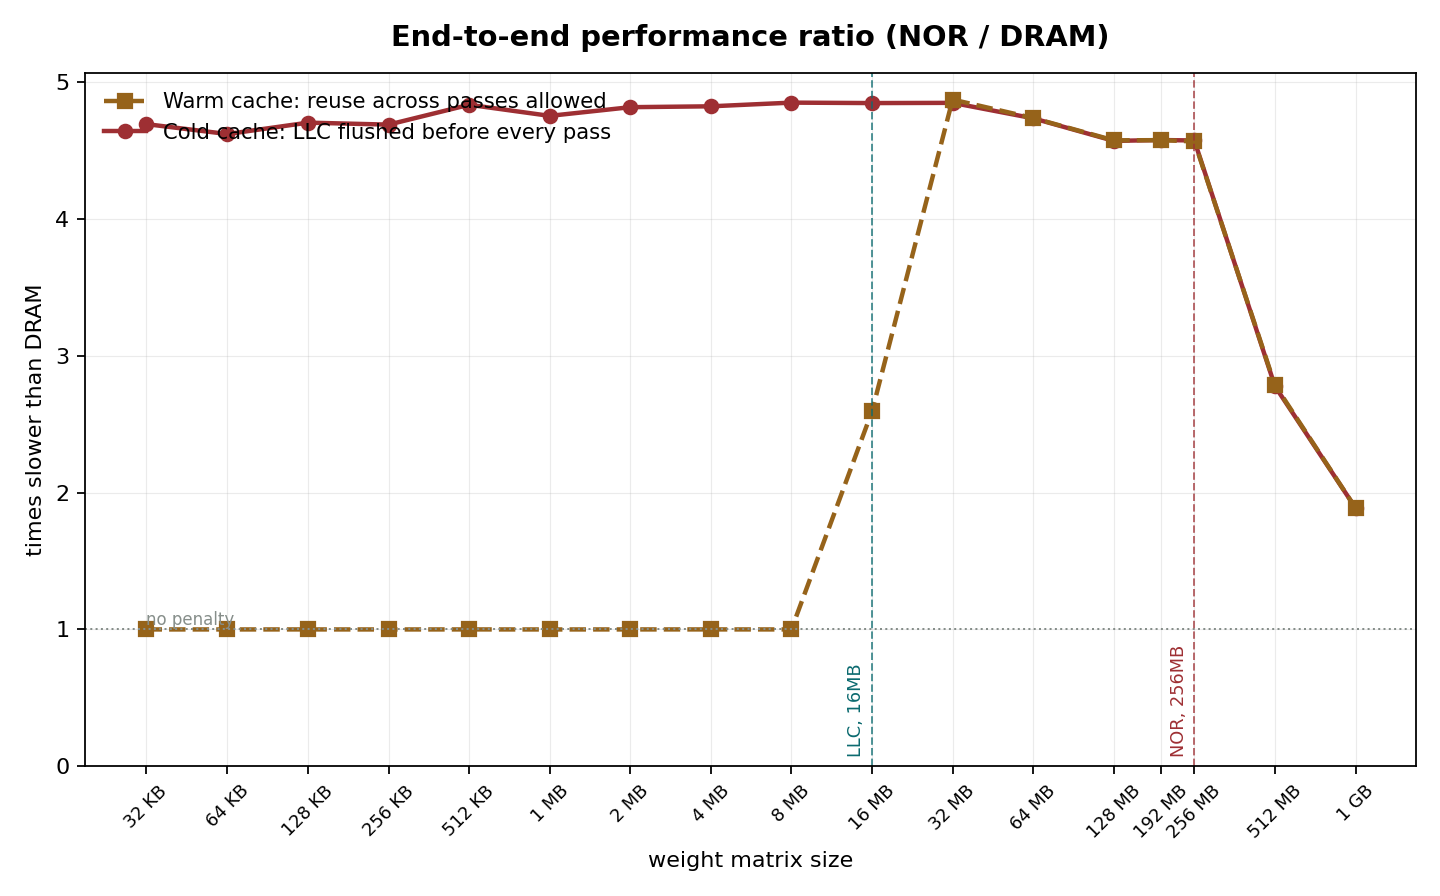
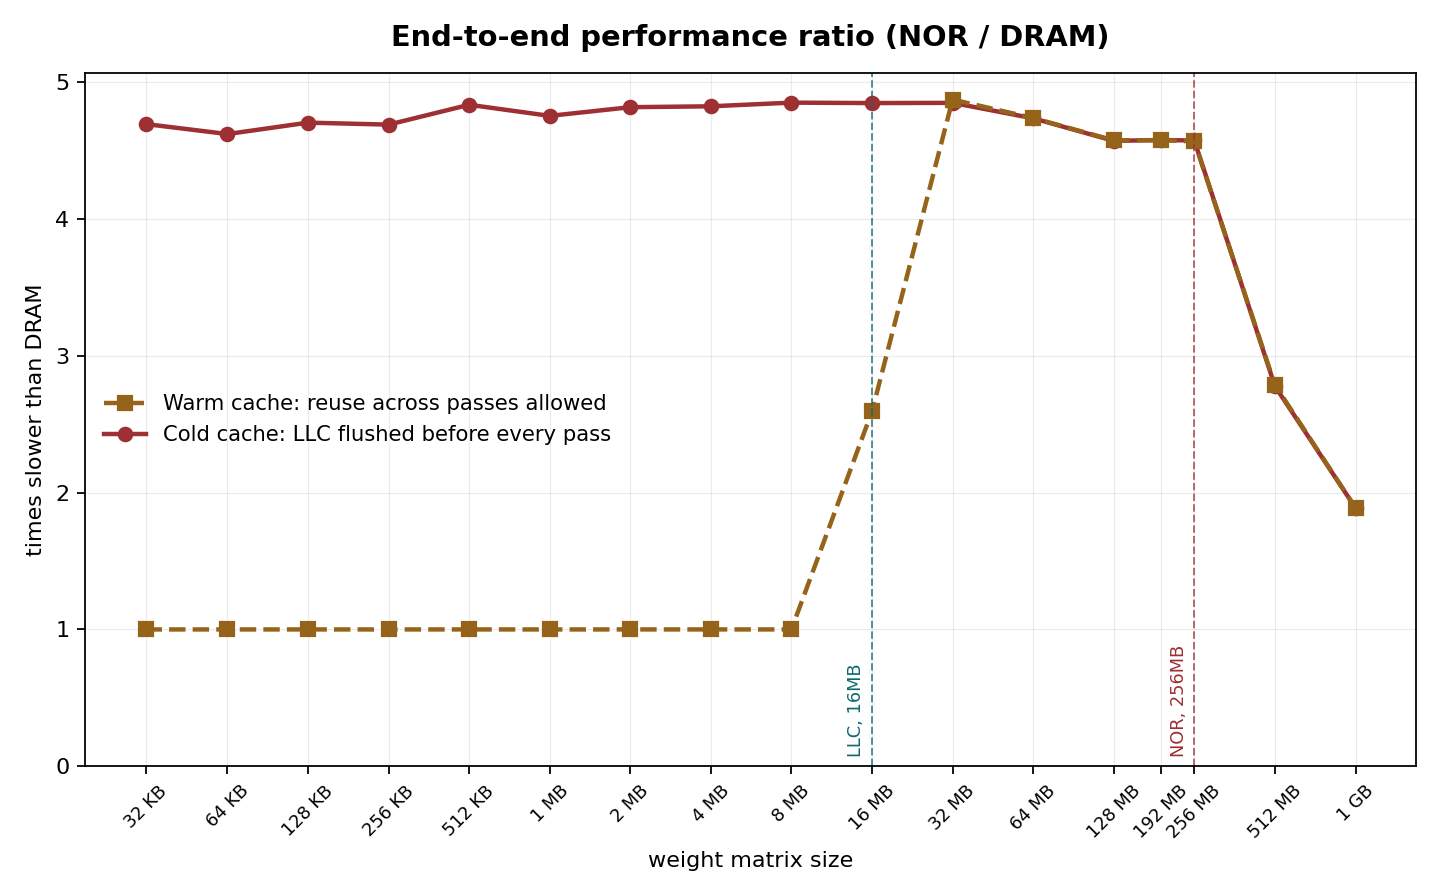
fig2: drop the no-penalty line, move the legend clear of the curves
The dotted y=1 line and its label added nothing the axis did not already say,
and it was the only horizontal reference in the sweep set -- fig1 and fig1b
never had one.

The legend sat at upper left, directly on the cold curve which runs flat at
~4.7 across that half. Centre left puts it in the band between the warm curve
at 1.0 and the cold curve above it, which is empty for the first two thirds
of the axis.

Changed region(s): [[0.0625, 0.4375, 0.4375, 0.5], [0.0625, 0.0938, 0.4375, 0.1562], [0.0938, 0.6875, 0.1562, 0.7188]]

diff --git a/scripts/plot_sweep.py b/scripts/plot_sweep.py
@@ -138,11 +138,9 @@ for cm, dm, lab, c, ls in [("nor_cold", "dram_cold",
     n, r = col(cm), col(dm)
     ax.plot(sizes, [x / y if y else float("nan") for x, y in zip(n, r)],
             ls, color=c, lw=2, label=lab)
-ax.axhline(1.0, color="#868E8A", lw=0.9, ls=":")
-ax.text(sizes[0], 1.03, "no penalty", fontsize=7.5, color="#868E8A")
 ax.set_ylim(bottom=0)
 frame(ax, "End-to-end performance ratio (NOR / DRAM)", "times slower than DRAM")
-legend_by_last(ax, fontsize=9.5, loc="upper left", frameon=False)
+legend_by_last(ax, fontsize=9.5, loc="center left", frameon=False)
 fig.tight_layout(); fig.savefig(f"{a.dir}/fig2-slowdown.png", dpi=160)
 
 # --------------------------------------------------------------- 3. share ---
